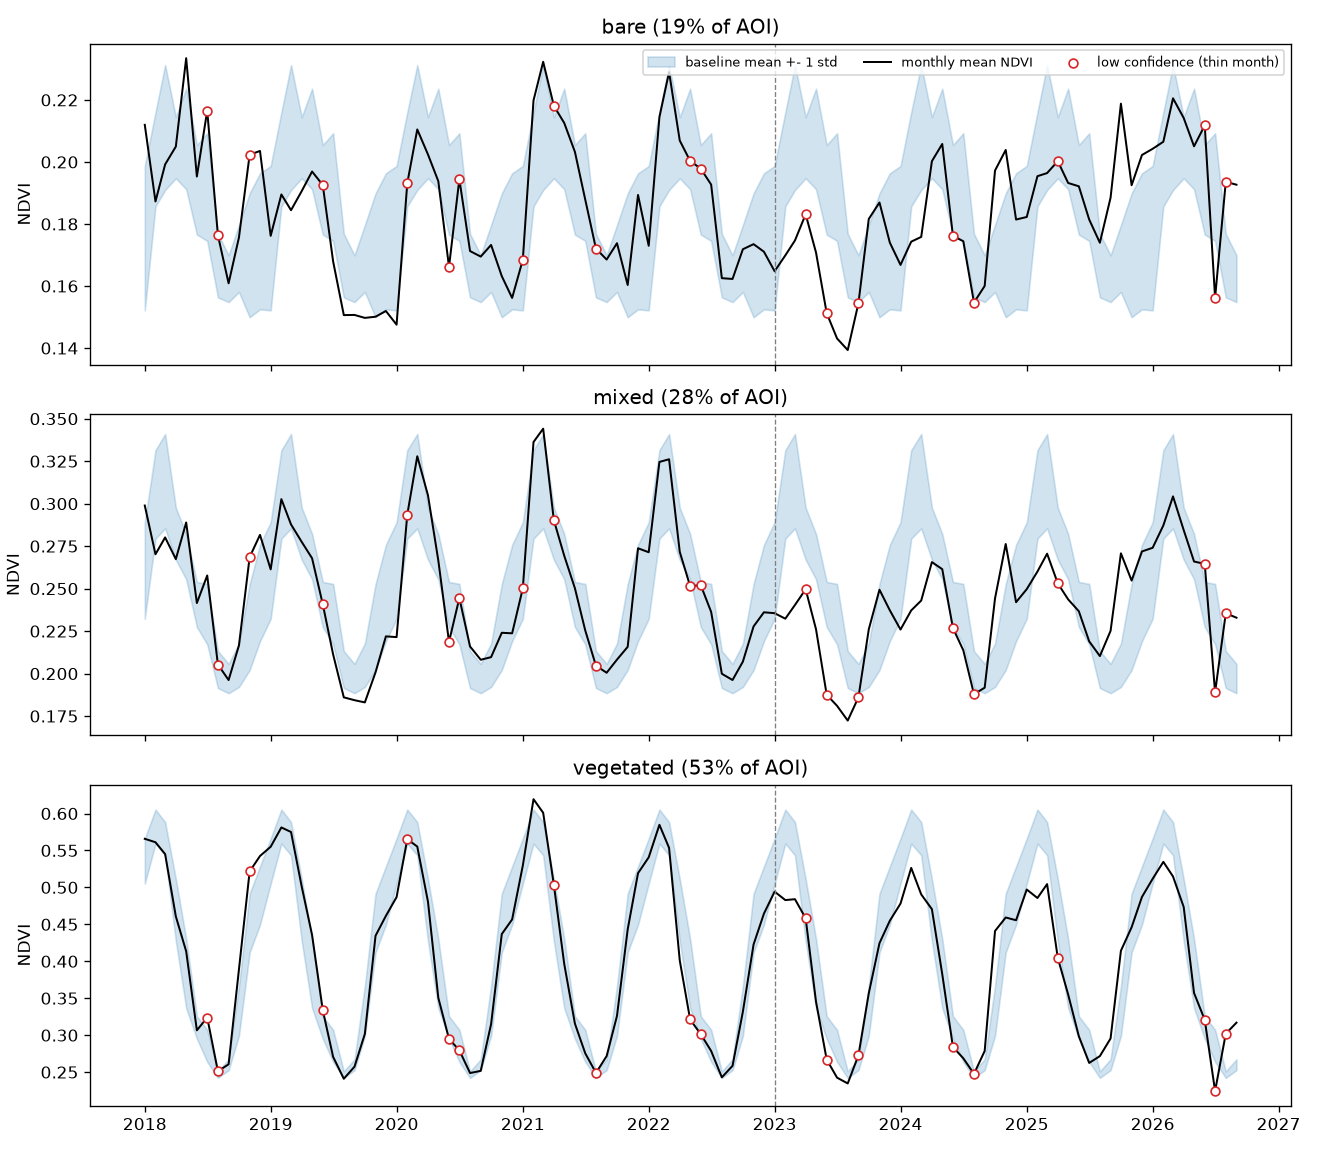
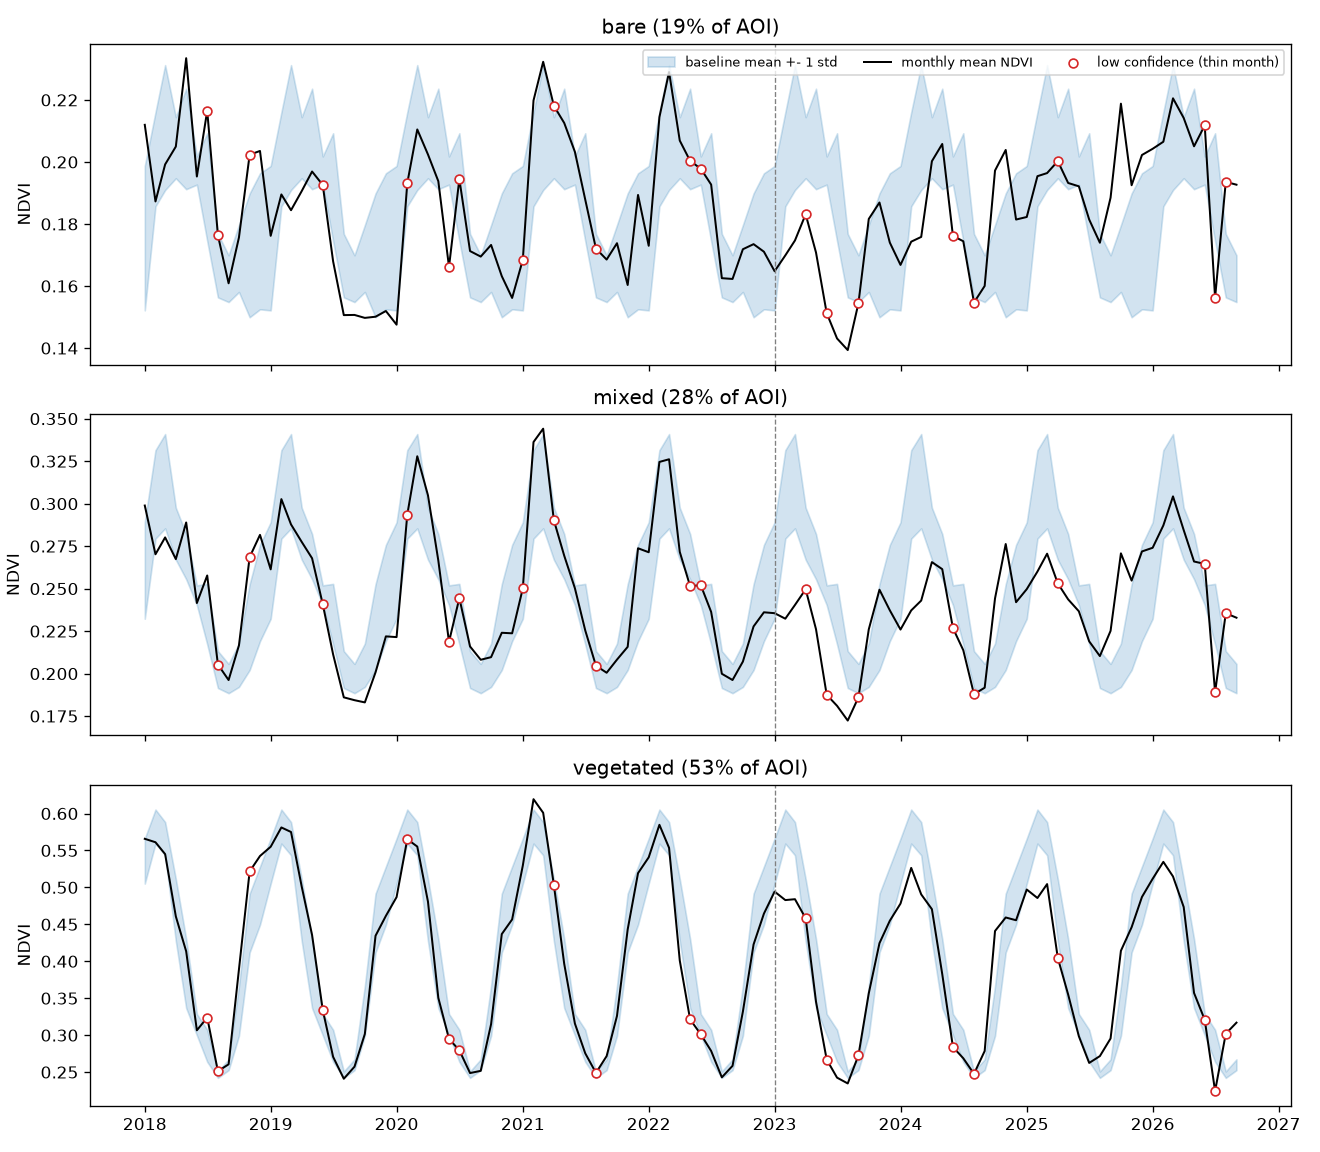
chore: update method doc

diff --git a/docs/method.md b/docs/method.md
@@ -61,3 +61,8 @@ Extrapolated from one month, a full 2017-2026 run should take well under 2 hours
 - Cuts 0.25/0.35 and 0.35/0.45 give vegetated median z of -0.78 and -0.89 (main: -0.83). Vegetated mean z becomes more negative as the class gets purer (-0.57, -0.71, -0.87).
 - The purest bare class (< 0.25) has mean z +0.09 and z std 1.63, noise alone for a 5 year baseline gives ~1.55. It has its own low episode in winter 2023.
 - Analysis period summer peaks sit below the baseline band. Oct-Dec 2024 and 2025 look above it.
+
+## Leave-one-year-out check and cause of the excess
+- Baseline years scored against the other four, rms difference (NDVI): bare 0.019, mixed 0.026, vegetated 0.033 (main cuts 0.3/0.4). Analysis period against all five: 0.029 / 0.035 / 0.052 (1.35-1.6x); 25-39% of zscores beyond |z| > 2 (pure noise: 14.2%).
+- Purest bare class (baseline Jan-Mar NDVI < 0.25, ~19% of AOI): analysis mean difference 0.000, rms 0.023 vs 0.018 in the baseline (1.28x), 22% beyond |z| > 2. No constant offset, the larger stratum excess at the main cut came from sparse vegetation. A modest residual excess is unexplained.
+- Mean NDVI difference by calendar month (analysis period, thin months excluded, 3-4 years per cell): vegetated -0.081 (Feb), -0.073 (Mar), +0.074 (Oct); bare and mixed show the same signs at about half the size. The sign flips with the season, so a constant calibration offset is unlikely. Cause (earlier green up and lower summer peak, water availability, heat) is not established.
